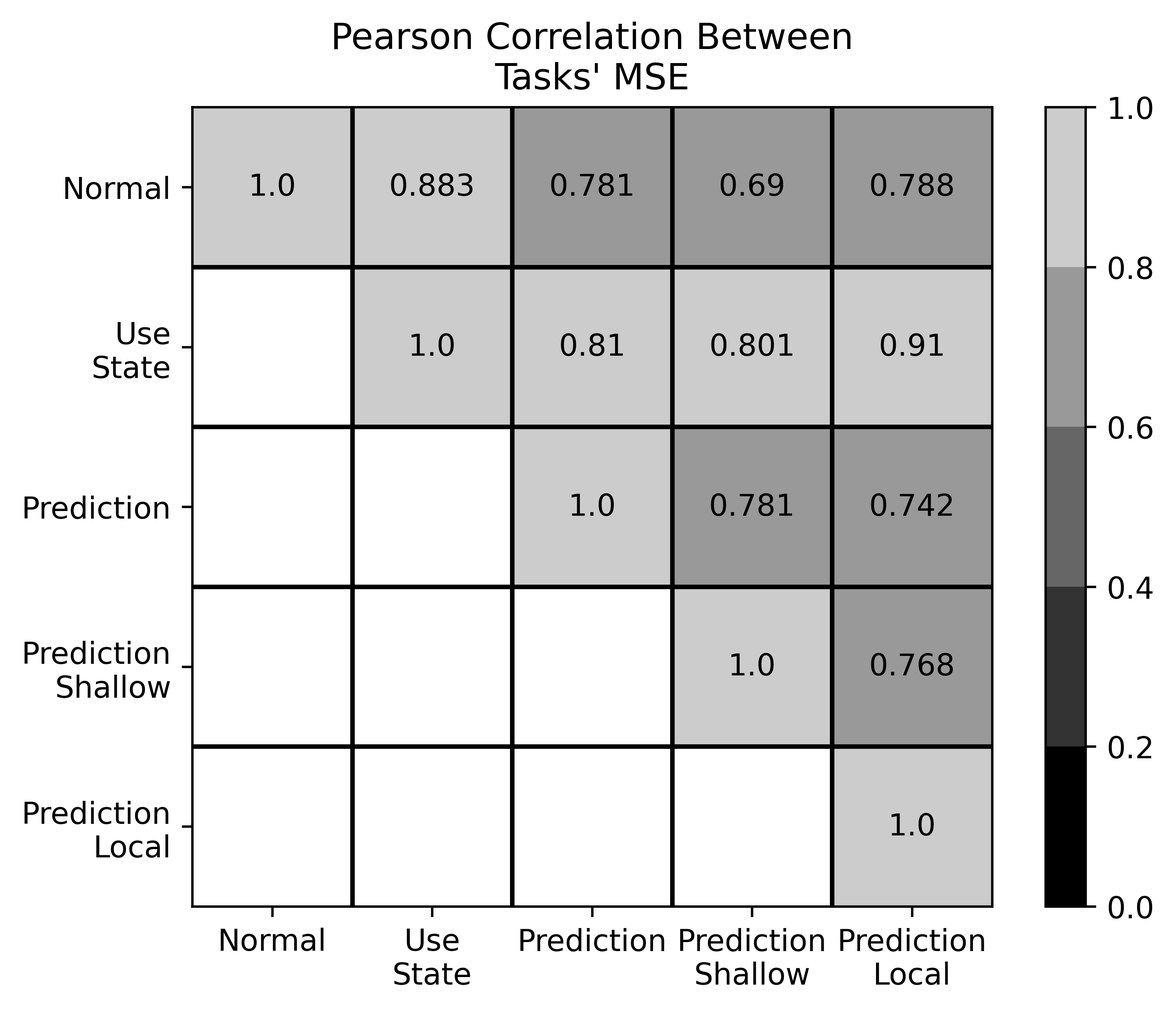
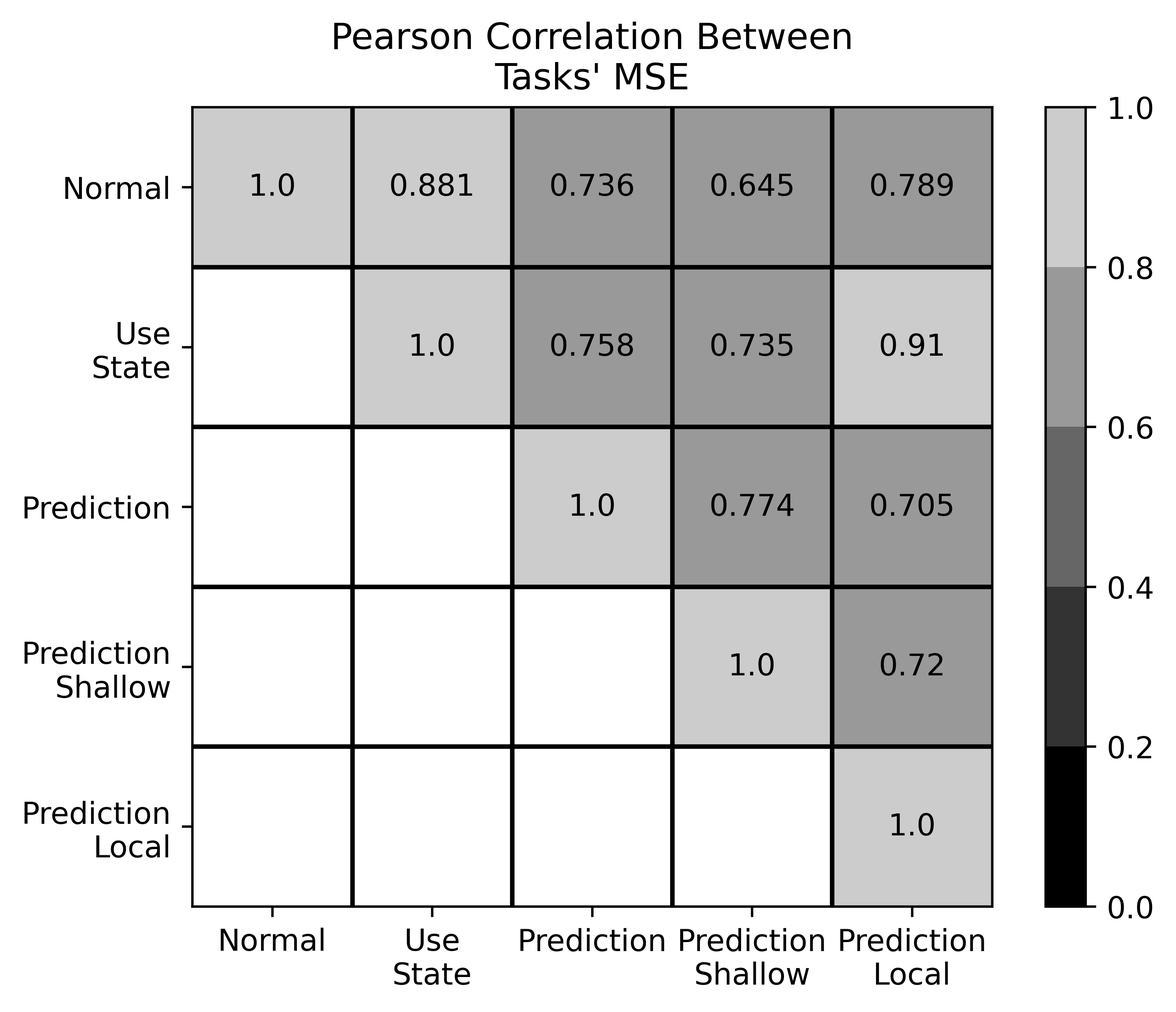
Toy1D - Atualizado relatórios

diff --git a/experiments/reports/World Machine - Toy1D - Experiment 1 Configuration Test.md b/experiments/reports/World Machine - Toy1D - Experiment 1 Configuration Test.md
@@ -11,9 +11,9 @@ If trying to re-run, please use these artifacts (mainly the Docker container).
 
 Also, note that the experiment-generated data is available in the "Experiment Results" artifact.
 
-- Code: World Machine version 0.2  [![](https://img.shields.io/badge/DOI-10.5281/zenodo.17806741-1082c3?style=for-the-badge)](https://doi.org/10.5281/zenodo.17806741)
--  Docker Image: World Machine Docker Image version 0.2  [![](https://img.shields.io/badge/DOI-10.5281/zenodo.17807040-1082c3?style=for-the-badge)](https://doi.org/10.5281/zenodo.17807040)
-- Experiment Results: [![](https://img.shields.io/badge/DOI-10.5281/zenodo.17661654-1082c3?style=for-the-badge)](https://doi.org/10.5281/zenodo.17661654)
+- Code: World Machine version 0.2.2  [![](https://img.shields.io/badge/DOI-10.5281/zenodo.20330332-1082c3?style=for-the-badge)](https://doi.org/10.5281/zenodo.20330332)
+-  Docker Image: World Machine Docker Image version 0.2.2  [![](https://img.shields.io/badge/DOI-10.5281/zenodo.20330370-1082c3?style=for-the-badge)](https://doi.org/10.5281/zenodo.20330370)
+- Experiment Results: [![](https://img.shields.io/badge/DOI-10.5281/zenodo.20331161-1082c3?style=for-the-badge)](https://doi.org/10.5281/zenodo.20331161)
 
 ## Authors
 
@@ -355,8 +355,8 @@ We present the experimental results and observations in this section.
 ![500](toy1d_experiment1/pearson_mse_between_tasks.png)
 
 - O3.1: Not all tasks are very highly correlated. This indicates that they actually measure different aspects, and that it may be helpful to evaluate the model across multiple tasks.
-- O3.2: There is a very high correlation between Use State and all other tasks, indicating this can be a good task to evaluate models.
-- O3.3: Prediction Shallow only has a very high correlation with Use State, indicating this is a highly distinct task and can be a good one to evaluate models.
+- O3.2: There is a very high correlation between Use State and two other tasks, indicating this can be a good task to evaluate models.
+- O3.3: Prediction Shallow does not have very high correlation with any task, indicating this is a highly distinct task and can be a good one to evaluate models.
 
 ### Impact on Task Performance
 ![](toy1d_experiment1/variable_impact_on_tasks.png)
@@ -387,31 +387,128 @@ We present the experimental results and observations in this section.
 ### Best Configurations
 
 
-<table style="border-collapse:collapse;border-spacing:0" class="tg"><thead>
-<tr><th style="border-color:inherit;border-style:solid;border-width:1px;font-family:Arial, sans-serif;font-size:14px;font-weight:bold;overflow:hidden;padding:10px 5px;text-align:left;vertical-align:top;word-break:normal">Best in</th><th style="border-color:inherit;border-style:solid;border-width:1px;font-family:Arial, sans-serif;font-size:14px;font-weight:bold;overflow:hidden;padding:10px 5px;text-align:left;vertical-align:top;word-break:normal">Type</th><th style="border-color:inherit;border-style:solid;border-width:1px;font-family:Arial, sans-serif;font-size:14px;font-weight:bold;overflow:hidden;padding:10px 5px;text-align:left;vertical-align:top;word-break:normal">Variables</th><th style="border-color:inherit;border-style:solid;border-width:1px;font-family:Arial, sans-serif;font-size:14px;font-weight:bold;overflow:hidden;padding:10px 5px;text-align:right;vertical-align:top;word-break:normal">Normal</th>
-<th style="border-color:inherit;border-style:solid;border-width:1px;font-family:Arial, sans-serif;font-size:14px;font-weight:bold;overflow:hidden;padding:10px 5px;text-align:right;vertical-align:top;word-break:normal">Use State</th><th style="border-color:inherit;border-style:solid;border-width:1px;font-family:Arial, sans-serif;font-size:14px;font-weight:bold;overflow:hidden;padding:10px 5px;text-align:right;vertical-align:top;word-break:normal">Prediction</th><th style="border-color:inherit;border-style:solid;border-width:1px;font-family:Arial, sans-serif;font-size:14px;font-weight:bold;overflow:hidden;padding:10px 5px;text-align:right;vertical-align:top;word-break:normal">Prediction Shallow</th><th style="border-color:inherit;border-style:solid;border-width:1px;font-family:Arial, sans-serif;font-size:14px;font-weight:bold;overflow:hidden;padding:10px 5px;text-align:right;vertical-align:top;word-break:normal">Prediction Local</th></tr>
-</thead>
+<style type="text/css">
+.tg  {border-collapse:collapse;border-spacing:0;}
+.tg td{border-color:black;border-style:solid;border-width:1px;font-family:Arial, sans-serif;font-size:14px;
+  overflow:hidden;padding:10px 5px;word-break:normal;}
+.tg th{border-color:black;border-style:solid;border-width:1px;font-family:Arial, sans-serif;font-size:14px;
+  font-weight:normal;overflow:hidden;padding:10px 5px;word-break:normal;}
+.tg .tg-83d4{border-color:inherit;font-style:italic;text-align:right;vertical-align:top}
+.tg .tg-3178{background-color:#EFEFEF;border-color:inherit;text-align:left;vertical-align:top}
+.tg .tg-9ew1{background-color:#EFEFEF;border-color:inherit;text-align:right;vertical-align:top}
+.tg .tg-o700{background-color:#EFEFEF;border-color:inherit;font-style:italic;text-align:right;vertical-align:top}
+.tg .tg-fymr{border-color:inherit;font-weight:bold;text-align:left;vertical-align:top}
+.tg .tg-6ic8{border-color:inherit;font-weight:bold;text-align:right;vertical-align:top}
+.tg .tg-0pky{border-color:inherit;text-align:left;vertical-align:top}
+.tg .tg-dvpl{border-color:inherit;text-align:right;vertical-align:top}
+</style>
+<table class="tg"><thead>
+  <tr>
+    <th class="tg-fymr"><span style="font-weight:bold">Best in</span></th>
+    <th class="tg-fymr"><span style="font-weight:bold">Type</span></th>
+    <th class="tg-fymr"><span style="font-weight:bold">Variables</span></th>
+    <th class="tg-6ic8"><span style="font-weight:bold">Normal</span></th>
+    <th class="tg-6ic8"><span style="font-weight:bold">Use State</span></th>
+    <th class="tg-6ic8"><span style="font-weight:bold">Prediction</span></th>
+    <th class="tg-6ic8"><span style="font-weight:bold">Prediction Shallow</span></th>
+    <th class="tg-6ic8"><span style="font-weight:bold">Prediction Local</span></th>
+  </tr></thead>
 <tbody>
-<tr><td style="background-color:#efefef;border-color:inherit;border-style:solid;border-width:1px;font-family:Arial, sans-serif;font-size:14px;overflow:hidden;padding:10px 5px;text-align:left;vertical-align:top;word-break:normal" rowspan="2">Normal</td><td style="background-color:#efefef;border-color:inherit;border-style:solid;border-width:1px;font-family:Arial, sans-serif;font-size:14px;overflow:hidden;padding:10px 5px;text-align:left;vertical-align:top;word-break:normal">Theoretical</td><td style="background-color:#efefef;border-color:inherit;border-style:solid;border-width:1px;font-family:Arial, sans-serif;font-size:14px;overflow:hidden;padding:10px 5px;text-align:left;vertical-align:top;word-break:normal">SM₂, NA₁, RF₄, RP₄</td><td style="background-color:#efefef;border-color:inherit;border-style:solid;border-width:1px;font-family:Arial, sans-serif;font-size:14px;font-style:italic;overflow:hidden;padding:10px 5px;text-align:right;vertical-align:top;word-break:normal">0.00323</td>
-<td style="background-color:#efefef;border-color:inherit;border-style:solid;border-width:1px;font-family:Arial, sans-serif;font-size:14px;overflow:hidden;padding:10px 5px;text-align:right;vertical-align:top;word-break:normal">0.00586</td><td style="background-color:#efefef;border-color:inherit;border-style:solid;border-width:1px;font-family:Arial, sans-serif;font-size:14px;overflow:hidden;padding:10px 5px;text-align:right;vertical-align:top;word-break:normal">0.0403</td><td style="background-color:#efefef;border-color:inherit;border-style:solid;border-width:1px;font-family:Arial, sans-serif;font-size:14px;overflow:hidden;padding:10px 5px;text-align:right;vertical-align:top;word-break:normal">0.118</td><td style="background-color:#efefef;border-color:inherit;border-style:solid;border-width:1px;font-family:Arial, sans-serif;font-size:14px;overflow:hidden;padding:10px 5px;text-align:right;vertical-align:top;word-break:normal">0.0113</td></tr>
-<tr><td style="background-color:#efefef;border-color:inherit;border-style:solid;border-width:1px;font-family:Arial, sans-serif;font-size:14px;overflow:hidden;padding:10px 5px;text-align:left;vertical-align:top;word-break:normal">Empirical</td><td style="background-color:#efefef;border-color:inherit;border-style:solid;border-width:1px;font-family:Arial, sans-serif;font-size:14px;overflow:hidden;padding:10px 5px;text-align:left;vertical-align:top;word-break:normal">SM₂, MD₁, NA₁, RP₄</td><td style="background-color:#efefef;border-color:inherit;border-style:solid;border-width:1px;font-family:Arial, sans-serif;font-size:14px;font-style:italic;overflow:hidden;padding:10px 5px;text-align:right;vertical-align:top;word-break:normal">0.00317</td><td style="background-color:#efefef;border-color:inherit;border-style:solid;border-width:1px;font-family:Arial, sans-serif;font-size:14px;overflow:hidden;padding:10px 5px;text-align:right;vertical-align:top;word-break:normal">0.00595</td>
-<td style="background-color:#efefef;border-color:inherit;border-style:solid;border-width:1px;font-family:Arial, sans-serif;font-size:14px;overflow:hidden;padding:10px 5px;text-align:right;vertical-align:top;word-break:normal">0.0408</td><td style="background-color:#efefef;border-color:inherit;border-style:solid;border-width:1px;font-family:Arial, sans-serif;font-size:14px;overflow:hidden;padding:10px 5px;text-align:right;vertical-align:top;word-break:normal">0.143</td><td style="background-color:#efefef;border-color:inherit;border-style:solid;border-width:1px;font-family:Arial, sans-serif;font-size:14px;overflow:hidden;padding:10px 5px;text-align:right;vertical-align:top;word-break:normal">0.0121</td></tr>
-<tr><td style="border-color:inherit;border-style:solid;border-width:1px;font-family:Arial, sans-serif;font-size:14px;overflow:hidden;padding:10px 5px;text-align:left;vertical-align:top;word-break:normal" rowspan="2">Use State</td><td style="border-color:inherit;border-style:solid;border-width:1px;font-family:Arial, sans-serif;font-size:14px;overflow:hidden;padding:10px 5px;text-align:left;vertical-align:top;word-break:normal">Theoretical</td><td style="border-color:inherit;border-style:solid;border-width:1px;font-family:Arial, sans-serif;font-size:14px;overflow:hidden;padding:10px 5px;text-align:left;vertical-align:top;word-break:normal">SM₂, NA₁, RP₄, RF₄</td><td style="border-color:inherit;border-style:solid;border-width:1px;font-family:Arial, sans-serif;font-size:14px;overflow:hidden;padding:10px 5px;text-align:right;vertical-align:top;word-break:normal">0.00323</td>
-<td style="border-color:inherit;border-style:solid;border-width:1px;font-family:Arial, sans-serif;font-size:14px;font-style:italic;overflow:hidden;padding:10px 5px;text-align:right;vertical-align:top;word-break:normal">0.00586</td><td style="border-color:inherit;border-style:solid;border-width:1px;font-family:Arial, sans-serif;font-size:14px;overflow:hidden;padding:10px 5px;text-align:right;vertical-align:top;word-break:normal">0.0403</td><td style="border-color:inherit;border-style:solid;border-width:1px;font-family:Arial, sans-serif;font-size:14px;overflow:hidden;padding:10px 5px;text-align:right;vertical-align:top;word-break:normal">0.118</td><td style="border-color:inherit;border-style:solid;border-width:1px;font-family:Arial, sans-serif;font-size:14px;overflow:hidden;padding:10px 5px;text-align:right;vertical-align:top;word-break:normal">0.0113</td></tr>
-<tr><td style="border-color:inherit;border-style:solid;border-width:1px;font-family:Arial, sans-serif;font-size:14px;overflow:hidden;padding:10px 5px;text-align:left;vertical-align:top;word-break:normal">Empirical</td><td style="border-color:inherit;border-style:solid;border-width:1px;font-family:Arial, sans-serif;font-size:14px;overflow:hidden;padding:10px 5px;text-align:left;vertical-align:top;word-break:normal">SM₂, NA₁, RP₄, RF₂</td><td style="border-color:inherit;border-style:solid;border-width:1px;font-family:Arial, sans-serif;font-size:14px;overflow:hidden;padding:10px 5px;text-align:right;vertical-align:top;word-break:normal">0.00317</td><td style="border-color:inherit;border-style:solid;border-width:1px;font-family:Arial, sans-serif;font-size:14px;font-style:italic;overflow:hidden;padding:10px 5px;text-align:right;vertical-align:top;word-break:normal">0.00572</td>
-<td style="border-color:inherit;border-style:solid;border-width:1px;font-family:Arial, sans-serif;font-size:14px;overflow:hidden;padding:10px 5px;text-align:right;vertical-align:top;word-break:normal">0.0407</td><td style="border-color:inherit;border-style:solid;border-width:1px;font-family:Arial, sans-serif;font-size:14px;overflow:hidden;padding:10px 5px;text-align:right;vertical-align:top;word-break:normal">0.142</td><td style="border-color:inherit;border-style:solid;border-width:1px;font-family:Arial, sans-serif;font-size:14px;overflow:hidden;padding:10px 5px;text-align:right;vertical-align:top;word-break:normal">0.0109</td></tr>
-<tr><td style="background-color:#efefef;border-color:inherit;border-style:solid;border-width:1px;font-family:Arial, sans-serif;font-size:14px;overflow:hidden;padding:10px 5px;text-align:left;vertical-align:top;word-break:normal" rowspan="2">Prediction</td><td style="background-color:#efefef;border-color:inherit;border-style:solid;border-width:1px;font-family:Arial, sans-serif;font-size:14px;overflow:hidden;padding:10px 5px;text-align:left;vertical-align:top;word-break:normal">Theoretical</td><td style="background-color:#efefef;border-color:inherit;border-style:solid;border-width:1px;font-family:Arial, sans-serif;font-size:14px;overflow:hidden;padding:10px 5px;text-align:left;vertical-align:top;word-break:normal">MD₁, NA₁, NA₂, RP₄, RF₄</td><td style="background-color:#efefef;border-color:inherit;border-style:solid;border-width:1px;font-family:Arial, sans-serif;font-size:14px;overflow:hidden;padding:10px 5px;text-align:right;vertical-align:top;word-break:normal">0.00379</td>
-<td style="background-color:#efefef;border-color:inherit;border-style:solid;border-width:1px;font-family:Arial, sans-serif;font-size:14px;overflow:hidden;padding:10px 5px;text-align:right;vertical-align:top;word-break:normal">0.00672</td><td style="background-color:#efefef;border-color:inherit;border-style:solid;border-width:1px;font-family:Arial, sans-serif;font-size:14px;font-style:italic;overflow:hidden;padding:10px 5px;text-align:right;vertical-align:top;word-break:normal">0.0267</td><td style="background-color:#efefef;border-color:inherit;border-style:solid;border-width:1px;font-family:Arial, sans-serif;font-size:14px;overflow:hidden;padding:10px 5px;text-align:right;vertical-align:top;word-break:normal">0.132</td><td style="background-color:#efefef;border-color:inherit;border-style:solid;border-width:1px;font-family:Arial, sans-serif;font-size:14px;overflow:hidden;padding:10px 5px;text-align:right;vertical-align:top;word-break:normal">0.0130</td></tr>
-<tr><td style="background-color:#efefef;border-color:inherit;border-style:solid;border-width:1px;font-family:Arial, sans-serif;font-size:14px;overflow:hidden;padding:10px 5px;text-align:left;vertical-align:top;word-break:normal">Empirical</td><td style="background-color:#efefef;border-color:inherit;border-style:solid;border-width:1px;font-family:Arial, sans-serif;font-size:14px;overflow:hidden;padding:10px 5px;text-align:left;vertical-align:top;word-break:normal">MD₁, NA₁, NA₂, RP₄, RF₄</td><td style="background-color:#efefef;border-color:inherit;border-style:solid;border-width:1px;font-family:Arial, sans-serif;font-size:14px;overflow:hidden;padding:10px 5px;text-align:right;vertical-align:top;word-break:normal">0.00379</td><td style="background-color:#efefef;border-color:inherit;border-style:solid;border-width:1px;font-family:Arial, sans-serif;font-size:14px;overflow:hidden;padding:10px 5px;text-align:right;vertical-align:top;word-break:normal">0.00672</td>
-<td style="background-color:#efefef;border-color:inherit;border-style:solid;border-width:1px;font-family:Arial, sans-serif;font-size:14px;font-style:italic;overflow:hidden;padding:10px 5px;text-align:right;vertical-align:top;word-break:normal">0.0267</td><td style="background-color:#efefef;border-color:inherit;border-style:solid;border-width:1px;font-family:Arial, sans-serif;font-size:14px;overflow:hidden;padding:10px 5px;text-align:right;vertical-align:top;word-break:normal">0.132</td><td style="background-color:#efefef;border-color:inherit;border-style:solid;border-width:1px;font-family:Arial, sans-serif;font-size:14px;overflow:hidden;padding:10px 5px;text-align:right;vertical-align:top;word-break:normal">0.0130</td></tr>
-<tr><td style="border-color:inherit;border-style:solid;border-width:1px;font-family:Arial, sans-serif;font-size:14px;overflow:hidden;padding:10px 5px;text-align:left;vertical-align:top;word-break:normal" rowspan="2">Prediction Shallow</td><td style="border-color:inherit;border-style:solid;border-width:1px;font-family:Arial, sans-serif;font-size:14px;overflow:hidden;padding:10px 5px;text-align:left;vertical-align:top;word-break:normal">Theoretical</td><td style="border-color:inherit;border-style:solid;border-width:1px;font-family:Arial, sans-serif;font-size:14px;overflow:hidden;padding:10px 5px;text-align:left;vertical-align:top;word-break:normal">MD₁, SB₂, NA₂, RP₄, RF₄, LM₁</td><td style="border-color:inherit;border-style:solid;border-width:1px;font-family:Arial, sans-serif;font-size:14px;overflow:hidden;padding:10px 5px;text-align:right;vertical-align:top;word-break:normal">0.00454</td>
-<td style="border-color:inherit;border-style:solid;border-width:1px;font-family:Arial, sans-serif;font-size:14px;overflow:hidden;padding:10px 5px;text-align:right;vertical-align:top;word-break:normal">0.00772</td><td style="border-color:inherit;border-style:solid;border-width:1px;font-family:Arial, sans-serif;font-size:14px;overflow:hidden;padding:10px 5px;text-align:right;vertical-align:top;word-break:normal">0.0430</td><td style="border-color:inherit;border-style:solid;border-width:1px;font-family:Arial, sans-serif;font-size:14px;font-style:italic;overflow:hidden;padding:10px 5px;text-align:right;vertical-align:top;word-break:normal">0.0832</td><td style="border-color:inherit;border-style:solid;border-width:1px;font-family:Arial, sans-serif;font-size:14px;overflow:hidden;padding:10px 5px;text-align:right;vertical-align:top;word-break:normal">0.00658</td></tr>
-<tr><td style="border-color:inherit;border-style:solid;border-width:1px;font-family:Arial, sans-serif;font-size:14px;overflow:hidden;padding:10px 5px;text-align:left;vertical-align:top;word-break:normal">Empirical</td><td style="border-color:inherit;border-style:solid;border-width:1px;font-family:Arial, sans-serif;font-size:14px;overflow:hidden;padding:10px 5px;text-align:left;vertical-align:top;word-break:normal">SB₂, MD₁, NA₂, RP₄, RF₄</td><td style="border-color:inherit;border-style:solid;border-width:1px;font-family:Arial, sans-serif;font-size:14px;overflow:hidden;padding:10px 5px;text-align:right;vertical-align:top;word-break:normal">0.00420</td><td style="border-color:inherit;border-style:solid;border-width:1px;font-family:Arial, sans-serif;font-size:14px;overflow:hidden;padding:10px 5px;text-align:right;vertical-align:top;word-break:normal">0.00723</td>
-<td style="border-color:inherit;border-style:solid;border-width:1px;font-family:Arial, sans-serif;font-size:14px;overflow:hidden;padding:10px 5px;text-align:right;vertical-align:top;word-break:normal">0.0319</td><td style="border-color:inherit;border-style:solid;border-width:1px;font-family:Arial, sans-serif;font-size:14px;font-style:italic;overflow:hidden;padding:10px 5px;text-align:right;vertical-align:top;word-break:normal">0.0761</td><td style="border-color:inherit;border-style:solid;border-width:1px;font-family:Arial, sans-serif;font-size:14px;overflow:hidden;padding:10px 5px;text-align:right;vertical-align:top;word-break:normal">0.00603</td></tr>
-<tr><td style="background-color:#efefef;border-color:inherit;border-style:solid;border-width:1px;font-family:Arial, sans-serif;font-size:14px;overflow:hidden;padding:10px 5px;text-align:left;vertical-align:top;word-break:normal" rowspan="2">Prediction Local</td><td style="background-color:#efefef;border-color:inherit;border-style:solid;border-width:1px;font-family:Arial, sans-serif;font-size:14px;overflow:hidden;padding:10px 5px;text-align:left;vertical-align:top;word-break:normal">Theoretical</td><td style="background-color:#efefef;border-color:inherit;border-style:solid;border-width:1px;font-family:Arial, sans-serif;font-size:14px;overflow:hidden;padding:10px 5px;text-align:left;vertical-align:top;word-break:normal">SB₂, SM₂, NA₁, RP₄, RF₂</td><td style="background-color:#efefef;border-color:inherit;border-style:solid;border-width:1px;font-family:Arial, sans-serif;font-size:14px;overflow:hidden;padding:10px 5px;text-align:right;vertical-align:top;word-break:normal">0.00335</td>
-<td style="background-color:#efefef;border-color:inherit;border-style:solid;border-width:1px;font-family:Arial, sans-serif;font-size:14px;overflow:hidden;padding:10px 5px;text-align:right;vertical-align:top;word-break:normal">0.00584</td><td style="background-color:#efefef;border-color:inherit;border-style:solid;border-width:1px;font-family:Arial, sans-serif;font-size:14px;overflow:hidden;padding:10px 5px;text-align:right;vertical-align:top;word-break:normal">0.0485</td><td style="background-color:#efefef;border-color:inherit;border-style:solid;border-width:1px;font-family:Arial, sans-serif;font-size:14px;overflow:hidden;padding:10px 5px;text-align:right;vertical-align:top;word-break:normal">0.121</td><td style="background-color:#efefef;border-color:inherit;border-style:solid;border-width:1px;font-family:Arial, sans-serif;font-size:14px;font-style:italic;overflow:hidden;padding:10px 5px;text-align:right;vertical-align:top;word-break:normal">0.00516</td></tr>
-<tr><td style="background-color:#efefef;border-color:inherit;border-style:solid;border-width:1px;font-family:Arial, sans-serif;font-size:14px;overflow:hidden;padding:10px 5px;text-align:left;vertical-align:top;word-break:normal">Empirical</td><td style="background-color:#efefef;border-color:inherit;border-style:solid;border-width:1px;font-family:Arial, sans-serif;font-size:14px;overflow:hidden;padding:10px 5px;text-align:left;vertical-align:top;word-break:normal">SM₂, NA₁, RP₂, RF₄, LM₁</td><td style="background-color:#efefef;border-color:inherit;border-style:solid;border-width:1px;font-family:Arial, sans-serif;font-size:14px;overflow:hidden;padding:10px 5px;text-align:right;vertical-align:top;word-break:normal">0.00346</td><td style="background-color:#efefef;border-color:inherit;border-style:solid;border-width:1px;font-family:Arial, sans-serif;font-size:14px;overflow:hidden;padding:10px 5px;text-align:right;vertical-align:top;word-break:normal">0.00605</td>
-<td style="background-color:#efefef;border-color:inherit;border-style:solid;border-width:1px;font-family:Arial, sans-serif;font-size:14px;overflow:hidden;padding:10px 5px;text-align:right;vertical-align:top;word-break:normal">0.0468</td><td style="background-color:#efefef;border-color:inherit;border-style:solid;border-width:1px;font-family:Arial, sans-serif;font-size:14px;overflow:hidden;padding:10px 5px;text-align:right;vertical-align:top;word-break:normal">0.124</td><td style="background-color:#efefef;border-color:inherit;border-style:solid;border-width:1px;font-family:Arial, sans-serif;font-size:14px;font-style:italic;overflow:hidden;padding:10px 5px;text-align:right;vertical-align:top;word-break:normal">0.00510</td></tr>
+  <tr>
+    <td class="tg-3178" rowspan="2"><span style="background-color:#EFEFEF">Normal</span></td>
+    <td class="tg-3178"><span style="background-color:#EFEFEF">Theoretical</span></td>
+    <td class="tg-3178"><span style="background-color:#EFEFEF">SM₂, NA₁, RF₄, RP₄</span></td>
+    <td class="tg-o700">0.0161522</td>
+    <td class="tg-9ew1">0.0292841</td>
+    <td class="tg-9ew1">0.201647</td>
+    <td class="tg-9ew1">0.588963</td>
+    <td class="tg-9ew1">0.0566982</td>
+  </tr>
+  <tr>
+    <td class="tg-3178"><span style="background-color:#EFEFEF">Empirical</span></td>
+    <td class="tg-3178"><span style="background-color:#EFEFEF">SM₂, MD₁, NA₁, RP₄</span></td>
+    <td class="tg-o700">0.0158366</td>
+    <td class="tg-9ew1">0.0297546</td>
+    <td class="tg-9ew1">0.203942</td>
+    <td class="tg-9ew1">0.718692</td>
+    <td class="tg-9ew1">0.0605751</td>
+  </tr>
+  <tr>
+    <td class="tg-0pky" rowspan="2">Use State</td>
+    <td class="tg-0pky">Theoretical</td>
+    <td class="tg-0pky">SM₂, NA₁, RP₄, RF₄</td>
+    <td class="tg-dvpl">0.0161522</td>
+    <td class="tg-83d4">0.0292841</td>
+    <td class="tg-dvpl">0.201647</td>
+    <td class="tg-dvpl">0.588963</td>
+    <td class="tg-dvpl">0.0566982</td>
+  </tr>
+  <tr>
+    <td class="tg-0pky">Empirical</td>
+    <td class="tg-0pky">SM₂, NA₁, RP₄, RF₂</td>
+    <td class="tg-dvpl">0.0158631</td>
+    <td class="tg-83d4">0.0285943</td>
+    <td class="tg-dvpl">0.203495</td>
+    <td class="tg-dvpl">0.70933</td>
+    <td class="tg-dvpl">0.0543793</td>
+  </tr>
+  <tr>
+    <td class="tg-3178" rowspan="2"><span style="background-color:#EFEFEF">Prediction</span></td>
+    <td class="tg-3178"><span style="background-color:#EFEFEF">Theoretical</span></td>
+    <td class="tg-3178"><span style="background-color:#EFEFEF">MD₁, NA₁, NA₂, RP₄, RF₄</span></td>
+    <td class="tg-9ew1">0.0189315</td>
+    <td class="tg-9ew1">0.0335762</td>
+    <td class="tg-o700">0.133412</td>
+    <td class="tg-9ew1">0.657532</td>
+    <td class="tg-9ew1">0.0648505</td>
+  </tr>
+  <tr>
+    <td class="tg-3178"><span style="background-color:#EFEFEF">Empirical</span></td>
+    <td class="tg-3178"><span style="background-color:#EFEFEF">MD₁, NA₁, NA₂, RP₄, RF₄</span></td>
+    <td class="tg-9ew1">0.0189315</td>
+    <td class="tg-9ew1">0.0335762</td>
+    <td class="tg-o700">0.133412</td>
+    <td class="tg-9ew1">0.657532</td>
+    <td class="tg-9ew1">0.0648505</td>
+  </tr>
+  <tr>
+    <td class="tg-0pky" rowspan="2">Prediction Shallow</td>
+    <td class="tg-0pky">Theoretical</td>
+    <td class="tg-0pky">MD₁, SB₂, NA₂, RP₄, RF₄, LM₁</td>
+    <td class="tg-dvpl">0.0227216</td>
+    <td class="tg-dvpl">0.03862</td>
+    <td class="tg-dvpl">0.21513</td>
+    <td class="tg-83d4">0.416144</td>
+    <td class="tg-dvpl">0.0329225</td>
+  </tr>
+  <tr>
+    <td class="tg-0pky">Empirical</td>
+    <td class="tg-0pky">SB₂, MD₁, NA₂, RP₄, RF₄</td>
+    <td class="tg-dvpl">0.0210186</td>
+    <td class="tg-dvpl">0.0361465</td>
+    <td class="tg-dvpl">0.159683</td>
+    <td class="tg-83d4">0.380407</td>
+    <td class="tg-dvpl">0.0301363</td>
+  </tr>
+  <tr>
+    <td class="tg-3178" rowspan="2"><span style="background-color:#EFEFEF">Prediction Local</span></td>
+    <td class="tg-3178"><span style="background-color:#EFEFEF">Theoretical</span></td>
+    <td class="tg-3178"><span style="background-color:#EFEFEF">SB₂, SM₂, NA₁, RP₄, RF₂</span></td>
+    <td class="tg-9ew1">0.0167738</td>
+    <td class="tg-9ew1">0.029201</td>
+    <td class="tg-9ew1">0.242502</td>
+    <td class="tg-9ew1">0.605277</td>
+    <td class="tg-o700">0.0258246</td>
+  </tr>
+  <tr>
+    <td class="tg-3178"><span style="background-color:#EFEFEF">Empirical</span></td>
+    <td class="tg-3178"><span style="background-color:#EFEFEF">SM₂, NA₁, RP₂, RF₄, LM₁</span></td>
+    <td class="tg-9ew1">0.0172787</td>
+    <td class="tg-9ew1">0.0302693</td>
+    <td class="tg-9ew1">0.233932</td>
+    <td class="tg-9ew1">0.620833</td>
+    <td class="tg-o700">0.0254819</td>
+  </tr>
 </tbody></table>
 
 - O7.1: Many of the variables that were indicated as good choices in the theoretical settings are present in the empirical ones. However, the sets were identical only once.

diff --git a/experiments/reports/toy1d_experiment1/best_models_metrics.md b/experiments/reports/toy1d_experiment1/best_models_metrics.md
@@ -1,16 +1,12 @@
----
-date created: 2025-11-20 17:14:35
-date modified: 2025-11-21 16:37:24
----
-| Best in            |     Normal |  Use State | Prediction | Prediction Shallow | Prediction Local | Type        |
-| :----------------- | ---------: | ---------: | ---------: | -----------------: | ---------------: | :---------- |
-| Normal             | 0.00316733 | 0.00595092 |  0.0407884 |           0.143738 |         0.012115 | Empirical   |
-| Use State          | 0.00317262 | 0.00571885 |  0.0406989 |           0.141866 |        0.0108759 | Empirical   |
-| Prediction         | 0.00378631 | 0.00671524 |  0.0266823 |           0.131506 |        0.0129701 | Empirical   |
-| Prediction Shallow | 0.00420373 | 0.00722931 |  0.0319367 |          0.0760815 |       0.00602726 | Empirical   |
-| Prediction Local   | 0.00345573 | 0.00605387 |  0.0467864 |           0.124167 |       0.00509637 | Empirical   |
-| Normal             | 0.00323043 | 0.00585681 |  0.0403293 |           0.117793 |        0.0113396 | Theoretical |
-| Use State          | 0.00323043 | 0.00585681 |  0.0403293 |           0.117793 |        0.0113396 | Theoretical |
-| Prediction         | 0.00378631 | 0.00671524 |  0.0266823 |           0.131506 |        0.0129701 | Theoretical |
-| Prediction Shallow | 0.00454431 |   0.007724 |  0.0430259 |          0.0832289 |       0.00658449 | Theoretical |
-| Prediction Local   | 0.00335475 | 0.00584021 |  0.0485005 |           0.121055 |       0.00516493 | Theoretical |
+| Best in            |    Normal |   Use State |   Prediction |   Prediction Shallow |   Prediction Local | Type        |
+|:-------------------|----------:|------------:|-------------:|---------------------:|-------------------:|:------------|
+| Normal             | 0.0158366 |   0.0297546 |     0.203942 |             0.718692 |          0.0605751 | Empirical   |
+| Use State          | 0.0158631 |   0.0285943 |     0.203495 |             0.70933  |          0.0543793 | Empirical   |
+| Prediction         | 0.0189315 |   0.0335762 |     0.133412 |             0.657532 |          0.0648505 | Empirical   |
+| Prediction Shallow | 0.0210186 |   0.0361465 |     0.159683 |             0.380407 |          0.0301363 | Empirical   |
+| Prediction Local   | 0.0172787 |   0.0302693 |     0.233932 |             0.620833 |          0.0254819 | Empirical   |
+| Normal             | 0.0161522 |   0.0292841 |     0.201647 |             0.588963 |          0.0566982 | Theoretical |
+| Use State          | 0.0161522 |   0.0292841 |     0.201647 |             0.588963 |          0.0566982 | Theoretical |
+| Prediction         | 0.0189315 |   0.0335762 |     0.133412 |             0.657532 |          0.0648505 | Theoretical |
+| Prediction Shallow | 0.0227216 |   0.03862   |     0.21513  |             0.416144 |          0.0329225 | Theoretical |
+| Prediction Local   | 0.0167738 |   0.029201  |     0.242502 |             0.605277 |          0.0258246 | Theoretical |

diff --git a/experiments/reports/World Machine - Toy1D - Experiment 2 Best Long.md b/experiments/reports/World Machine - Toy1D - Experiment 2 Best Long.md
@@ -11,9 +11,9 @@ If trying to re-run, please use these artifacts (mainly the Docker container).
 
 Also, note that the experiment-generated data is available in the "Experiment Results" artifact.
 
-- Code: World Machine version 0.2  [![](https://img.shields.io/badge/DOI-10.5281/zenodo.17806741-1082c3?style=for-the-badge)](https://doi.org/10.5281/zenodo.17806741)
--  Docker Image: World Machine Docker Image version 0.2  [![](https://img.shields.io/badge/DOI-10.5281/zenodo.17807040-1082c3?style=for-the-badge)](https://doi.org/10.5281/zenodo.17807040)
-- Experiment Results: [![](https://img.shields.io/badge/DOI-10.5281/zenodo.17653180-1082c3?style=for-the-badge)](https://doi.org/10.5281/zenodo.17653180)
+- Code: World Machine version 0.2.1  [![](https://img.shields.io/badge/DOI-10.5281/zenodo.20314763-1082c3?style=for-the-badge)](https://doi.org/10.5281/zenodo.20314763)
+-  Docker Image: World Machine Docker Image version 0.2.1  [![](https://img.shields.io/badge/DOI-10.5281/zenodo.20314869-1082c3?style=for-the-badge)](https://doi.org/10.5281/zenodo.120314869)
+- Experiment Results: [![](https://img.shields.io/badge/DOI-10.5281/zenodo.20331411-1082c3?style=for-the-badge)](https://doi.org/10.5281/zenodo.20331411)
 
 ## Authors
 

diff --git a/experiments/reports/World Machine - Toy1D - Experiment 0 Protocol Test.md b/experiments/reports/World Machine - Toy1D - Experiment 0 Protocol Test.md
@@ -12,9 +12,9 @@ If trying to re-run, please use these artifacts (mainly the Docker container).
 
 Also, note that the experiment-generated data is available in the "Experiment Results" artifact.
 
-- Code: World Machine version 0.2  [![](https://img.shields.io/badge/DOI-10.5281/zenodo.17806741-1082c3?style=for-the-badge)](https://doi.org/10.5281/zenodo.17806741)
-- Docker Image: World Machine Docker Image version 0.2  [![](https://img.shields.io/badge/DOI-10.5281/zenodo.17807040-1082c3?style=for-the-badge)](https://doi.org/10.5281/zenodo.17807040)
-- Experiment Results: [![](https://img.shields.io/badge/DOI-10.5281/zenodo.17352548-1082c3?style=for-the-badge)](https://doi.org/10.5281/zenodo.17352548)
+- Code: World Machine version 0.2.1  [![](https://img.shields.io/badge/DOI-10.5281/zenodo.17806741-1082c3?style=for-the-badge)](https://doi.org/10.5281/zenodo.17806741)
+- Docker Image: World Machine Docker Image version 0.2.1  [![](https://img.shields.io/badge/DOI-10.5281/zenodo.20314869-1082c3?style=for-the-badge)](https://doi.org/10.5281/zenodo.20314869)
+- Experiment Results: [![](https://img.shields.io/badge/DOI-10.5281/zenodo.20314675-1082c3?style=for-the-badge)](https://doi.org/10.5281/zenodo.20314675)
 
 ## Authors
 
